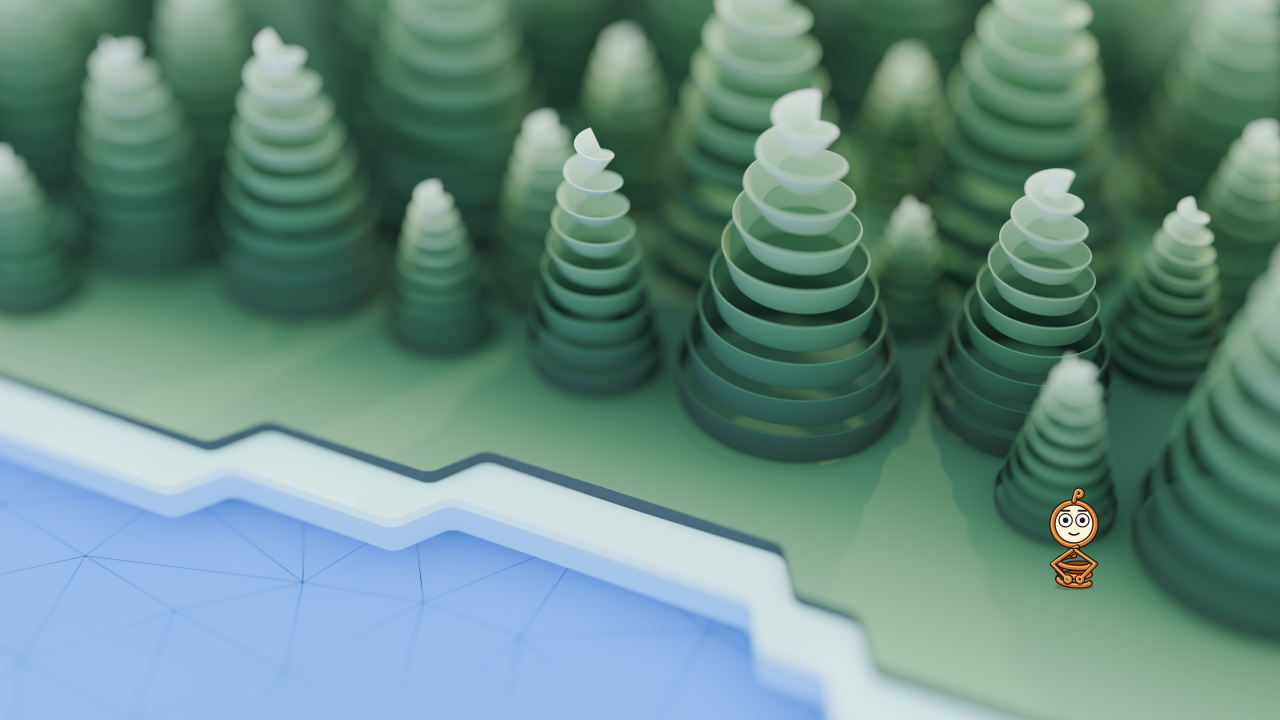
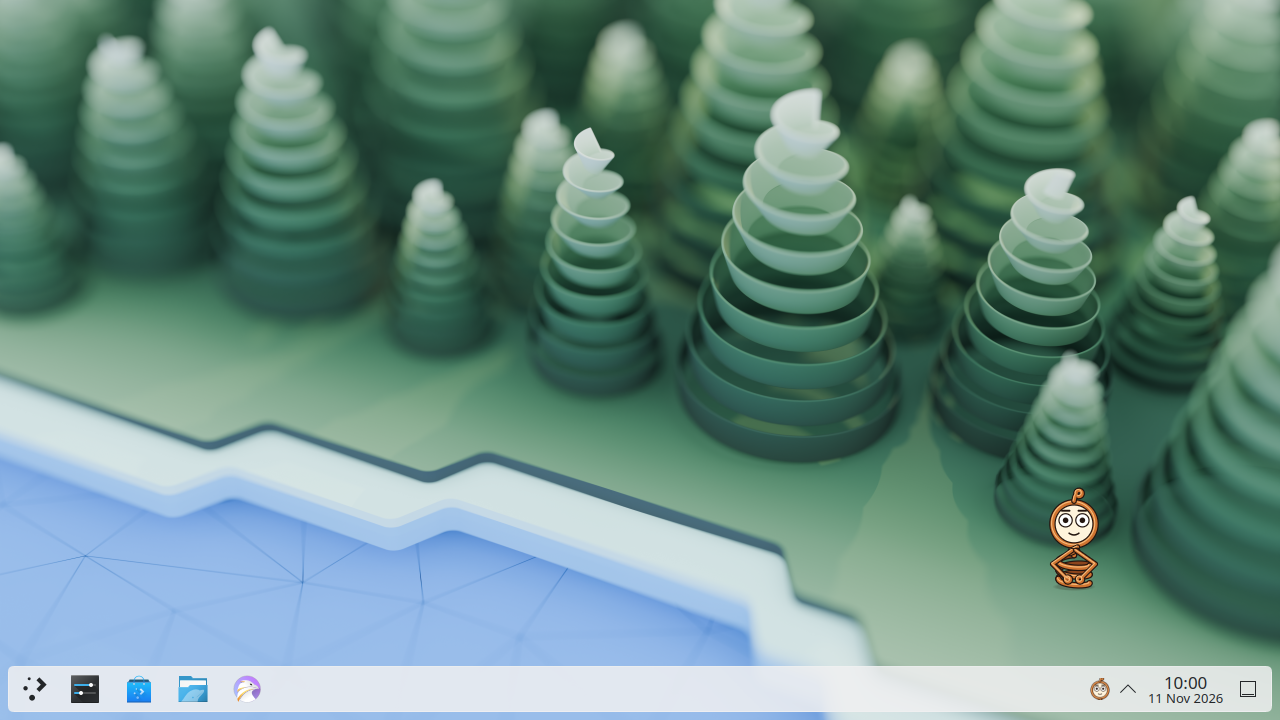
Screenshots: the desktop counts as settled only with the panel drawn; idle.png with the panel

Changed region(s): [[0.0, 0.9167, 1.0, 1.0]]

diff --git a/scripts/screenshots/shot.py b/scripts/screenshots/shot.py
@@ -9,6 +9,8 @@ usage: shot.py has SNAPSHOT.json KIND...           exit 0 if every surface kind 
        shot.py inside SNAPSHOT.json x y w h KIND...  exit 0 if those surfaces lie in the rect
        shot.py crop IN.ppm OUT.png SCALE x y w h   crop a logical rect (times SCALE)
        shot.py pixel IN.ppm RRGGBB                 exit 0 if pixel (0, 0) has the colour
+       shot.py light IN.ppm SCALE x y MIN          exit 0 if every channel of the pixel at the
+                                                   logical point is at least MIN
        shot.py opaque IN.ppm REF.ppm SCALE x y w h the pixel nearest the logical rect's
                                                    centre that differs from REF (the bare
                                                    desktop), in logical coordinates: x y
@@ -145,6 +147,10 @@ def main():
         return True
     if cmd == "pixel":
         return Image.open(args[0]).convert("RGB").getpixel((0, 0)) == tuple(bytes.fromhex(args[1]))
+    if cmd == "light":
+        k = int(args[1])
+        x, y, lo = (int(v) for v in args[2:5])
+        return min(Image.open(args[0]).convert("RGB").getpixel((x * k, y * k))) >= lo
     if cmd == "opaque":
         im = Image.open(args[0]).convert("RGB")
         ref = Image.open(args[1]).convert("RGB")
